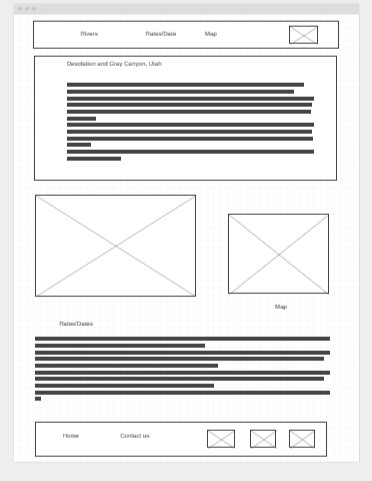
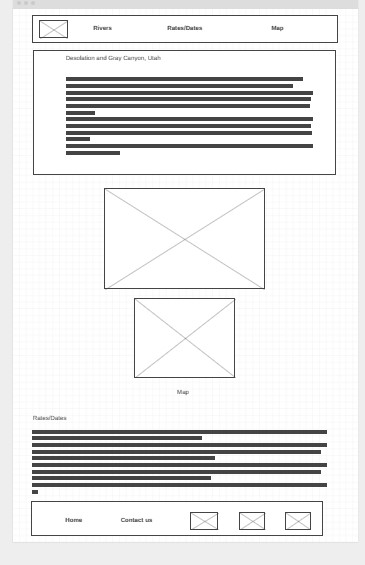
added on style.css for wwr

diff --git a/wwr/river.html b/wwr/river.html
@@ -1,0 +1,77 @@
+
+<!DOCTYPE html> 
+<html lang="en"> 
+<head> 
+    <meta charset="UTF-8"> 
+    <meta http-equiv="X-UA-Compatible" content="IE=edge"> 
+    <meta name="viewport" content="width=device-width, initial-scale=1.0"> 
+    <title>Whitewater Rafting Vacations | River Adventure | Rivers</title> 
+    <link rel="stylesheet" href="styles/style.css">  
+</head>
+
+<body> 
+    <div id="content-2">
+        <header>
+            <a id="logo_link" href="index.html"> 
+                <img class="logo" src="images/mylogo.png" alt="logo image">  
+            </a> 
+            <nav> 
+                <a href="river..html">River</a> 
+                <a href="#">Rates/Dates</a> 
+                <a href="site-plan-rafting.html">Map</a> 
+            </nav>
+        </header> 
+        <section class="river-msg"> 
+            <h1>Desolation and Gray Canyon, Utah</h1> 
+
+                <p> Winding through canyons in central Utah, in some of the most desolate land anywhere, the Green river flows towards the mighty Colorado river and the sea. 
+                High grey stone cliffs, beautiful desert scenery, and great rapids have made this run famous. This 84-mile trip runs from from Sand Wash to Swaseys Rapid (just outside Green River Utah) and boasts outstanding scenery,
+                interesting geologic formations, evidence of prehistoric and historic human activity, and great whitewater opportunities.
+                
+                <p>Desolation is rated a Class II/III and is usually done in 6 days.</p>
+
+                <p> Desolation Canyon has been recognized as a National Landmark. 
+                    This designation is based on the uniqueness and rich history that the canyon tells.</p> 
+                </section>                   
+       
+        </div>
+        <main-1 class="River-grid"> 
+            <section class="river-card"> 
+                <img class="card-2-img" src="images/wk9-river.jpg" alt="Experience the love of Whitewater Rafting"> 
+            </section> 
+            <section class="Address-card"> 
+                <img class="card-3-img" src="images/wk9-address.jpg" alt="look on the map for directions"> 
+                <h2>Map</h2> 
+            </section>
+            <section class="msg"> 
+                <h2>Rates/Dates</h2> 
+
+                <p>Prices and Dates for our 2016 Season
+                    GRAND CANYON THREE-NIGHT TRIP: 2016 Pricing and Dates Grand Canyon 3 night trips: $1,475 April 30 May 13, 20, 27, 30 June 3, 10, 17, 24, 28 July 1, 8, 15, 22, 29 August 5, 12, 19, 26 September 9, 17
+                    GRAND CANYON SIX-NIGHT TRIP: (The dates listed will be the date that you spend the night in Marble Canyon. The launch date is the following day.) 2016 Pricing and Dates Grand Canyon 6 night trips: $2,550 April 25 May 8, 15, 22, 25, 29 June 5, 12, 19, 23, 26 July 3, 10, 17, 24, 31 August 7, 14, 21 September 4, 12
+                    Salmon River 5 night trip (The dates listed will be the date that you spend the night in Salmon. The launch date is the following day.) 2016 Pricing and Dates Regular Rate: $1,540 Trip Dates June 3, 10, 17, 24 July 2
+                    Desolation 6 night Trip 2016 Pricing and Dates Regular Rate: $1,790 Trip Dates July 10, 18, 26 Aug 3, 11, 19, 27 Sept 4  </p> 
+
+                <a class='book now' href="rivers.html">Book now</a> 
+            </section>  
+        </main> 
+        <footer-2> 
+            <p>Home</p> 
+            <p><a href="contactus.html">Contact Us</a></p> 
+            <div class="social"> 
+                <a href="https://facebook.com"  target="_blank"> 
+                    <img src="images/facebook.png" alt="fb icon"> 
+                </a> 
+                <a href="https://twitter.com"  target="_blank"> 
+                    <img src="images/twitter.png" alt="twitter icon"> 
+                </a> 
+                <a href="https://instagram.com"  target="_blank"> 
+                    <img src="images/instagram.png" alt="instagram icon"> 
+                </a> 
+            </div>   
+        </footer> 
+    </div>
+</body> 
+</html> 
+
+ 

diff --git a/wwr/styles/style.css b/wwr/styles/style.css
@@ -206,6 +206,60 @@ footer .social img {
 }
 
 
+/*Rivers page style.css*/
+
+#content-2 {
+    max-width: 1600px;
+    margin: 0 auto;
+}
+
+#river-msg{
+    background-color: rgba(192, 182, 192, 0.534);
+    font-family: Georgia, 'Times New Roman', Times, serif;
+    font-size: 22px;
+    margin: 0 300px;
+    padding: 0;
+}
+
+main.River-grid{
+    display: grid;
+    grid-column: 1fr 1fr 1fr 1fr;
+    justify-items: center;
+}
+
+
+footer-2{
+    background-color: rgba(236, 153, 0, 0.164);
+    color: rgba(8, 8, 7, 0.164);
+    padding: 25px 50px;
+    margin-top: 200px;
+    display: flex;
+    justify-content: space-around;
+    align-items: center;
+}
+
+footer-2 a {
+    color: rgb(9, 9, 53);
+    padding: 10px;
+    text-decoration: none;   
+}
+footer-2 a :hover{
+    color: rgb(9, 9, 53);    
+}
+footer-2 p {
+    font-size: 1.2em;
+    color:  rgb(9, 9, 53);   
+}    
+ 
+footer .social img {
+    padding-top: 15px;
+}
+
+
+
+
+
+
 @media screen and (max-width: 900px) {
     #hero, .home-grid {
         display: block;
